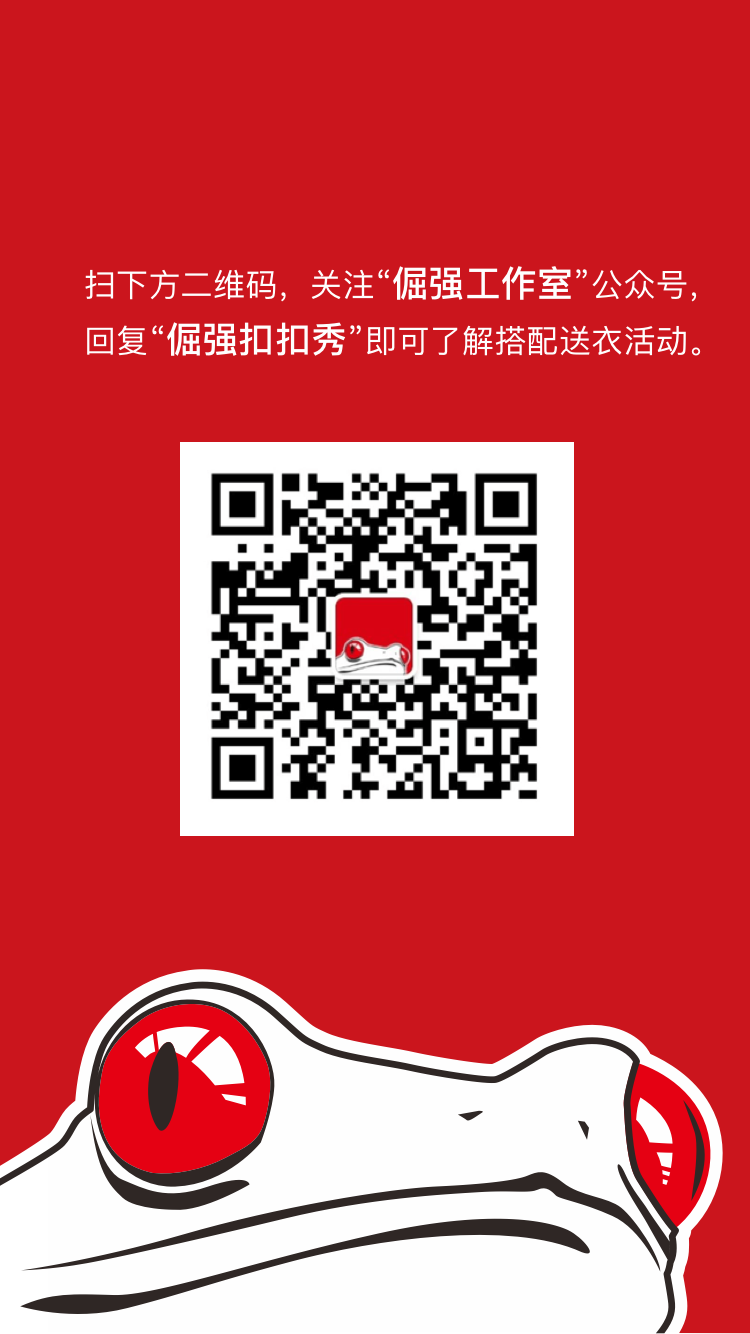
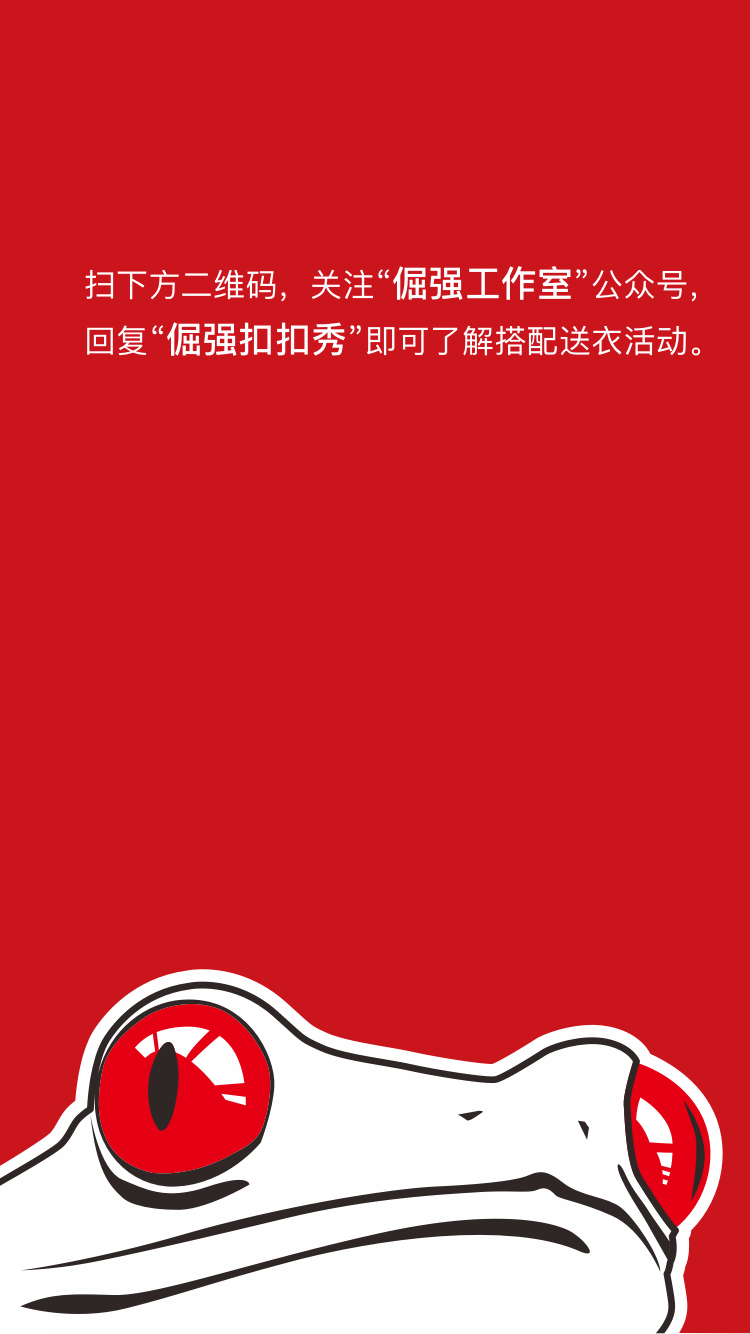
样式优化

Changed region(s): [[0.2147, 0.3073, 0.7667, 0.6454]]

diff --git a/css/main.css b/css/main.css
@@ -900,10 +900,11 @@
 
 .desc {
     background-color: #595758;
+    height: 100%;
+    background-size: 100% 100%;
+    background-image: url(../img/desc.png?v=10002);
 }
 
 .desc center {
-    height: 100%;
-    background-size: cover;
-    background-image: url(../img/desc.png?v=10002);
+
 }

diff --git a/index.html b/index.html
@@ -107,7 +107,8 @@
         <center></center>
     </section>
     <section class="desc">
-       <img src="img/desc.png" style="width: 100%;height: 100%;">
+        <center><img src="img/desc-s.png" style="width: 50%;margin-top: 65%;"></center>
+
     </section>
 </div>
 
